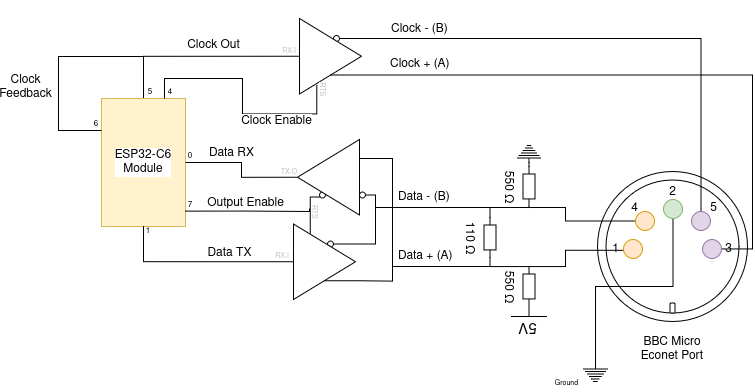
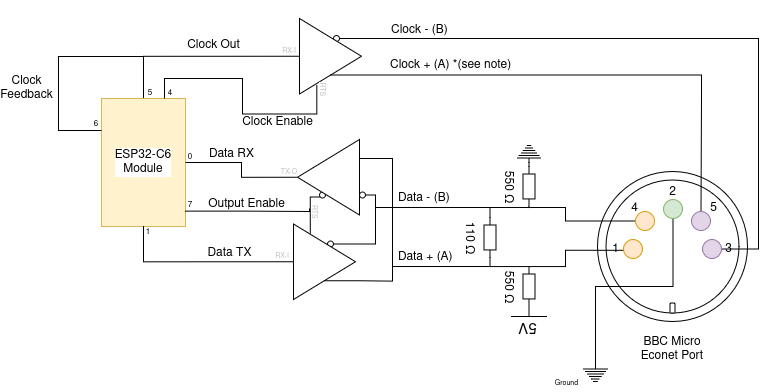
Docs: Fix Schematic error on clock connections to Econet Plug
The clock pins in a previous version of the schematic were reversed, as stated in _The Econet System User Guide_ however this was not correct and later documentation shows them reversed. This commit corrects the info.

diff --git a/README.md b/README.md
@@ -42,6 +42,8 @@ Connect the components as shown in the schematic:
 
 ![Hardware schematic](docs/Schematic.png)
 
+*-Schematic note: The clock pins in a previous version of this schematic were reversed, as stated in _The Econet System User Guide_ however this was not correct and later documentation shows them reversed.
+
 **Note:** Power the RS485 driver modules from **3.3 V**.
 
 Final assembly complete with Econet plug ready for use:
